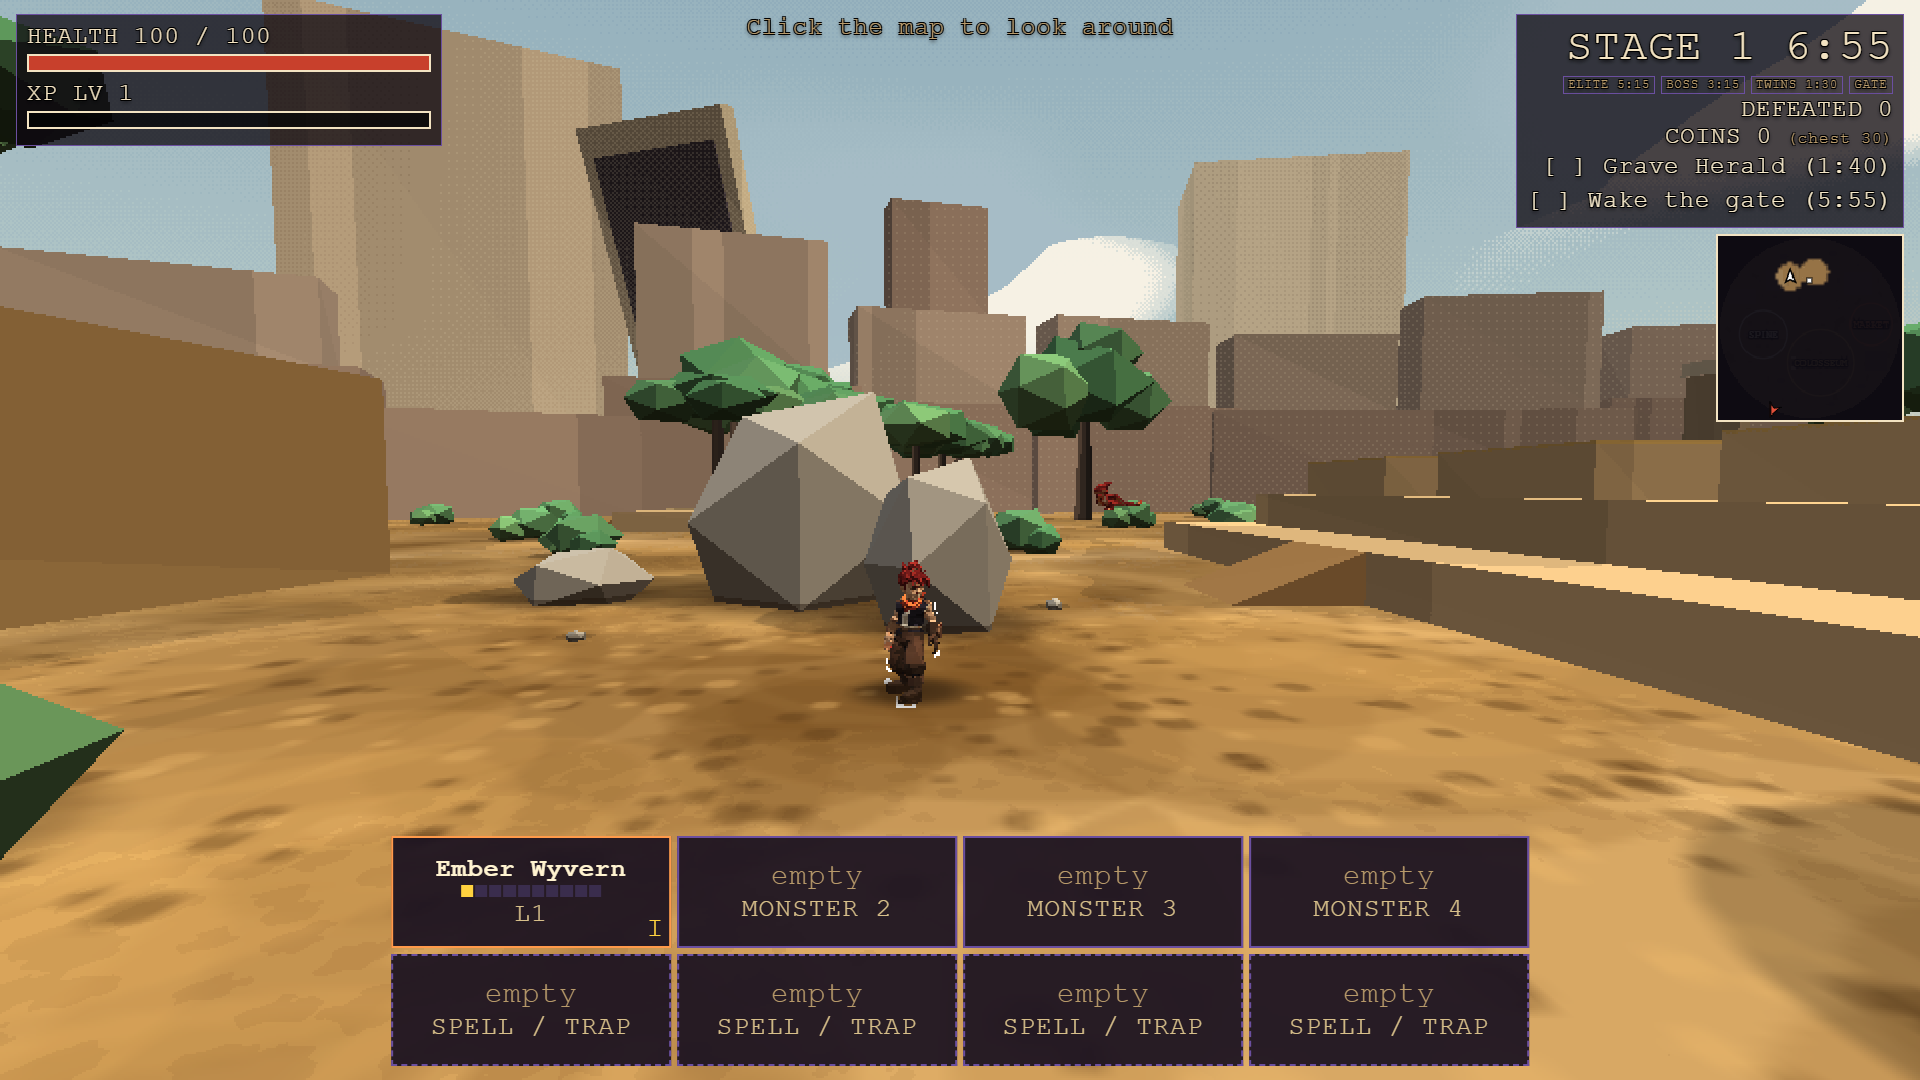
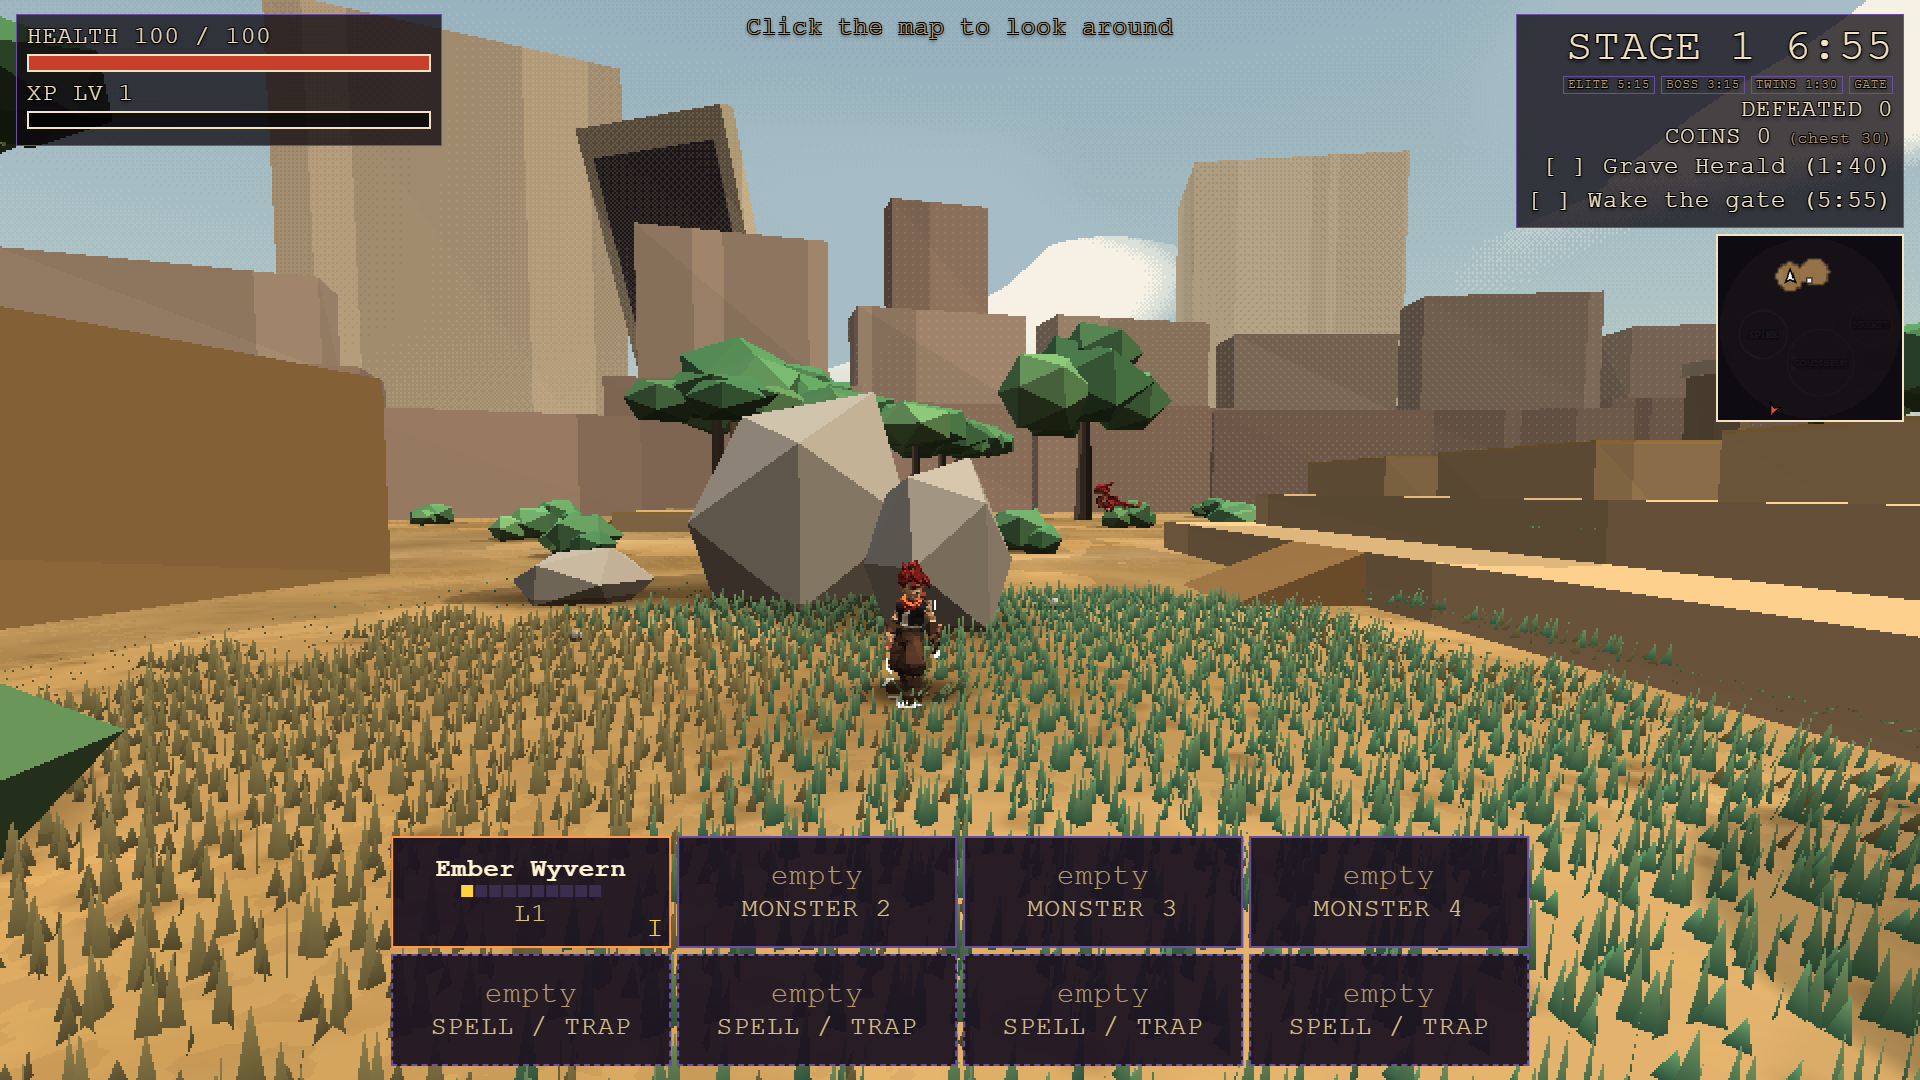
Grass reads as a field: denser, wider blades in canopy greens, shaded under trees; calmer sand
Blade grass: 1.2 m patch slots of 36 blades (1024 patches, 36,864 triangles at High, 22 by 22 at Medium), blades 0.075 m at the base and widening with distance, canopy greens 3f6e4e to 74ae72 with dry tips toward the sand tones, darkened by the shadow mask so groves sit in shade, and shrunk to nothing within 2.4 m of the lens. The old 527 tufts are gone unless Detail is Low; bushes within 4.5 m of the camera collapse. The ground detail texture blotches and flecks are about half as strong, so the sand is calmer under a horde. A debug getter __ds.grass lets the test switch the grass off: test/browser-grass.mjs now reports one-frame draws and triangles and the share of the ground band that differs with grass on and off (51.8% in the densest meadow of seed 1).

Claude-Session: https://claude.ai/code/session_01G4m5sPDpcSeznt8KShqd9B

diff --git a/duelsummoner/src/view/grass.js b/duelsummoner/src/view/grass.js
@@ -9,9 +9,9 @@ import { MAP } from '../data/map.js';
 import { heightAt } from '../sim/terrain.js';
 import { roadPath, roadDist, poolSpots } from '../gen/road.js';
 import { strHash, noise2 } from '../gen/scatter.js';
-import { GLSL, engineUniforms, E } from './engine.js';
+import { GLSL, engineUniforms, E, MASK } from './engine.js';
 
-const CELL = 1.5, BLADES = 24, HALF = 232, MN = 256;
+const CELL = 1.2, BLADES = 36, HALF = 232, MN = 256;
 export function detailLevel() { const q = new URLSearchParams(location.search).get('detail'); return q === 'low' || q === 'medium' ? q : 'high'; }
 
 // density map: R = how thick (0 none, 255 full), G = ground height (0 to 4 m)
@@ -43,12 +43,12 @@ function bladeGeometry(slots) {
 
 export function buildGrass(map, stageIndex, S, theme, level) {
   level = level || detailLevel(); if (level === 'low') return null;
-  const W = level === 'medium' ? 28 : 40, col = h => new T.Color(h);
-  const u = Object.assign({ uMask: { value: bakeDensity(map, S) }, uBox: { value: new T.Vector4(-HALF, -HALF, 2 * HALF, 2 * HALF) }, uPl: E.pl, uW: { value: W }, uR: { value: W * CELL * 0.47 },
-    uC0: { value: col(theme.bladeCols[0]).multiplyScalar(0.7) }, uC1: { value: col(theme.bladeCols[1]) }, uC2: { value: col(theme.leaf[0]).multiplyScalar(0.8) }, uC3: { value: col(theme.leaf[2]) } }, engineUniforms(), T.UniformsUtils.clone(T.UniformsLib.fog));
+  const W = level === 'medium' ? 22 : 32, col = h => new T.Color(h);
+  const u = Object.assign({ uMask: { value: bakeDensity(map, S) }, uBox: { value: new T.Vector4(-HALF, -HALF, 2 * HALF, 2 * HALF) }, uPl: E.pl, uW: { value: W }, uR: { value: W * CELL * 0.47 }, uShT: MASK.tex, uShB: MASK.box, uShK: MASK.k,
+    uC0: { value: col(theme.bladeCols[0]).multiplyScalar(0.75) }, uC1: { value: col(theme.bladeCols[1]) }, uC2: { value: col(theme.grass ? theme.grass[0] : 0x3f6e4e) }, uC3: { value: col(theme.grass ? theme.grass[1] : 0x74ae72) } }, engineUniforms(), T.UniformsUtils.clone(T.UniformsLib.fog));
   const mat = new T.ShaderMaterial({ uniforms: u, fog: true, side: T.DoubleSide,
     vertexShader: GLSL.slice(0, GLSL.indexOf('float bayer()')) + `
-    uniform sampler2D uMask; uniform vec4 uBox; uniform vec3 uPl; uniform float uW; uniform float uR; uniform vec3 uC0; uniform vec3 uC1; uniform vec3 uC2; uniform vec3 uC3;
+    uniform sampler2D uMask; uniform vec4 uBox; uniform vec3 uPl; uniform float uW; uniform float uR; uniform vec3 uC0; uniform vec3 uC1; uniform vec3 uC2; uniform vec3 uC3; uniform sampler2D uShT; uniform vec4 uShB; uniform float uShK;
     attribute vec4 aBl; attribute float aSlot; varying vec3 vCol;
     #include <fog_pars_vertex>
     void main() {
@@ -64,15 +64,16 @@ export function buildGrass(map, stageIndex, S, theme, level) {
       vec2 root = centre + aBl.xy;
       float gy = m.g * 4.0;
       vec2 away = root - uPl.xz; float pr = length(away), push = clamp(1.0 - pr / 1.5, 0.0, 1.0); push *= push;
-      height *= 1.0 - 0.45 * push;
-      float width = 0.05 * (1.0 + dist * 0.06);
+      height *= (1.0 - 0.45 * push) * smoothstep(1.2, 2.4, length(cameraPosition - vec3(root.x, 0.0, root.y)));
+      float width = 0.075 * (1.0 + dist * 0.06);
       vec2 sd = vec2(cos(aBl.z), sin(aBl.z));
       float g = gust(centre), bend = cy * cy * ((0.08 + 0.92 * g) * 0.2 + sin(uT * 5.0 + centre.x * 2.1 + centre.y * 1.7 + aBl.x * 6.0) * 0.015 * g);
       vec2 wd = normalize(uWind.xy), lean = wd * bend + normalize(away + 1e-4) * push * 0.4 * cy;
       vec3 wp = vec3(root.x + sd.x * side * width * 0.5 * (1.0 - cy) + lean.x, gy + cy * height, root.y + sd.y * side * width * 0.5 * (1.0 - cy) + lean.y);
-      float zone = N(centre * 0.02 + 0.3).a, tone = step(0.5, zone + (hh - 0.5) * 0.35);
-      vec3 base = mix(mix(uC0, uC1, hh), mix(uC2, uC3, hh), tone);
-      vCol = base * mix(0.62, 1.05, cy);
+      float zone = N(centre * 0.02 + 0.3).a, tone = step(0.32, zone + (hh - 0.5) * 0.35);
+      vec3 base = mix(mix(uC0, uC1, hh), uC2, tone);
+      vCol = mix(base, mix(uC3, uC1, hh * 0.7), tone * smoothstep(0.35, 1.0, cy) * 0.75) * mix(0.74, 1.08, cy);
+      { vec2 sp = root - normalize(uWind.xy) * (0.12 + 0.88 * g) * 0.6; vCol *= 1.0 - uShK * smoothstep(0.42, 0.58, texture2D(uShT, (sp - uShB.xy) / uShB.zw).r); }
       vec4 mvPosition = viewMatrix * vec4(wp, 1.0); gl_Position = projectionMatrix * mvPosition;
       #include <fog_vertex>
     }`,

diff --git a/duelsummoner/src/view/scenery.js b/duelsummoner/src/view/scenery.js
@@ -4,6 +4,7 @@
 import { scatterStage, mulberry } from '../gen/scatter.js';
 import { seeInstanced } from './seethrough.js';
 import { windify } from './engine.js';
+import { detailLevel } from './grass.js';
 
 // the top-down shadow mask (one 512 x 512 texture over the 464 m square, baked once per stage): a soft disc for every tree canopy, boulder and bush, pushed away from the sun by its height
 function bakeShadowMask(S) {
@@ -90,9 +91,9 @@ export function buildScenery(map, stageIndex, models) {
   for (let v = 0; v < 4; v++) add(treeGeo(theme, v), S.trees[v], windify(seeInstanced(mat0.clone(), { c: [0, 7.5, 0], r: v < 2 ? 4.8 : 3.7, keep0: 0.25 }, { top: v < 2 ? 6.4 : 5.6 }), { h: 9, lean: 0.35, flut: 0.03 }), false, 3, v);       // trunk and canopy are one mesh per variant (aPart 0 and 1); each variant has its own material (its canopy radius), still 4 draws
   { const rg = rockGeo(theme, 0), all = [].concat(S.rocks[0], S.rocks[1], S.rocks[2]); rg.computeBoundingSphere(); const bs = rg.boundingSphere; add(rg, all, seeInstanced(mat.clone(), { c: [bs.center.x, bs.center.y, bs.center.z], r: bs.radius, keep0: 0.25 })); }       // one shared boulder shape; size, squash and turn make the variety
   const fadeOut = (m, nearD, farD) => { const c = m.clone(); c.onBeforeCompile = sh => { sh.vertexShader = sh.vertexShader.replace('#include <begin_vertex>', '#include <begin_vertex>\n#ifdef USE_INSTANCING\n { float dd_ = distance((modelMatrix * instanceMatrix * vec4(0.0, 0.0, 0.0, 1.0)).xyz, cameraPosition); if (dd_ < ' + nearD.toFixed(1) + ' || dd_ > ' + farD.toFixed(1) + ') transformed *= 0.0; }\n#endif'); }; return c; };       // small scatter collapses in the vertex shader: nothing within 4 m of the camera, and a far cut-off, with no per-frame upload
-  { const bg = bushGeo(theme); bg.computeBoundingSphere(); const bs = bg.boundingSphere; add(bg, S.bushes, seeInstanced(fadeOut(mat, 0, 90), { c: [bs.center.x, bs.center.y, bs.center.z], r: bs.radius, keep0: 0.25 })); }
+  { const bg = bushGeo(theme); bg.computeBoundingSphere(); const bs = bg.boundingSphere; add(bg, S.bushes, seeInstanced(fadeOut(mat, 4.5, 90), { c: [bs.center.x, bs.center.y, bs.center.z], r: bs.radius, keep0: 0.25 })); }
   if (theme.special) { const sg = theme.special === 'crystal' ? crystalGeo(theme) : mushroomGeo(theme); sg.computeBoundingSphere(); const bs = sg.boundingSphere; add(sg, S.special, seeInstanced(mat.clone(), { c: [bs.center.x, bs.center.y, bs.center.z], r: bs.radius, keep0: 0.25 })); }
-  add(grassGeo(theme), S.grass, windify(fadeOut(matBoth, 4, 70), { h: 0.35, lean: 0.2, flut: 0.03 }));
+  if (detailLevel() === 'low') add(grassGeo(theme), S.grass, windify(fadeOut(matBoth, 4, 70), { h: 0.35, lean: 0.2, flut: 0.03 }));       // the old tufts only stand in when the blade grass is off (Detail Low)
   add(flowerGeo(), S.flowers.map(f => [f[0], f[1], f[2], f[3], f[4], theme.flowerCols[f[5] % theme.flowerCols.length]]), windify(fadeOut(matBoth, 4, 50), { h: 0.5, lean: 0.14, flut: 0.02 }), true);
   for (const k of kinds) {
     const mesh = new T.InstancedMesh(k.geo, k.mat, k.list.length), m = new T.Matrix4(), q = new T.Quaternion(), s = new T.Vector3(), p = new T.Vector3(), up = new T.Vector3(0, 1, 0), c = new T.Color();

diff --git a/duelsummoner/src/view/mapMesh.js b/duelsummoner/src/view/mapMesh.js
@@ -101,9 +101,9 @@ let gtex = null;
 function groundTex() {
   if (gtex) return gtex; const cv = document.createElement('canvas'); cv.width = cv.height = 256; const c = cv.getContext('2d'); c.fillStyle = '#fff'; c.fillRect(0, 0, 256, 256); let s = 99; const r = () => { s = (Math.imul(s, 1664525) + 1013904223) >>> 0; return s / 4294967296; };
   const wrap = (x, y, rad, col) => { c.fillStyle = col; for (const dx of [-256, 0, 256]) for (const dy of [-256, 0, 256]) { c.beginPath(); c.arc(x + dx, y + dy, rad, 0, 6.283); c.fill(); } };
-  for (let i = 0; i < 70; i++) wrap(r() * 256, r() * 256, 12 + r() * 34, 'rgba(120,95,50,0.16)');
-  for (let i = 0; i < 40; i++) wrap(r() * 256, r() * 256, 10 + r() * 24, 'rgba(255,245,215,0.20)');
-  for (let i = 0; i < 900; i++) wrap(r() * 256, r() * 256, 0.8 + r() * 1.6, r() < 0.6 ? 'rgba(90,70,40,0.35)' : 'rgba(255,250,235,0.45)');
+  for (let i = 0; i < 70; i++) wrap(r() * 256, r() * 256, 12 + r() * 34, 'rgba(120,95,50,0.07)');
+  for (let i = 0; i < 40; i++) wrap(r() * 256, r() * 256, 10 + r() * 24, 'rgba(255,245,215,0.09)');
+  for (let i = 0; i < 900; i++) wrap(r() * 256, r() * 256, 0.8 + r() * 1.6, r() < 0.6 ? 'rgba(90,70,40,0.2)' : 'rgba(255,250,235,0.26)');
   gtex = new T.CanvasTexture(cv); gtex.wrapS = gtex.wrapT = T.RepeatWrapping; gtex.magFilter = T.LinearFilter; gtex.minFilter = T.LinearMipmapLinearFilter; return gtex;
 }
 // the pool lip: a low carved stone ring, 0.6 m wide and 0.21 m tall (the water sits 0.15 m below it), faceted in 40 blocks in the ruinstone ramp with a few light faces on top, and a dark wet band on the inner wall

diff --git a/duelsummoner/src/main.js b/duelsummoner/src/main.js
@@ -564,6 +564,7 @@ function duelistPixels() {
   return { alone, visible, silhouette };
 }
 window.__ds = {
+  get grass() { return grassMesh; },
   duelistPixels, see: SEE, tagBlocked,
   bars,
   summonPos: () => { const g = actors.monsters.values().next().value; return g ? { x: g.position.x, y: g.position.y, z: g.position.z } : null; },
